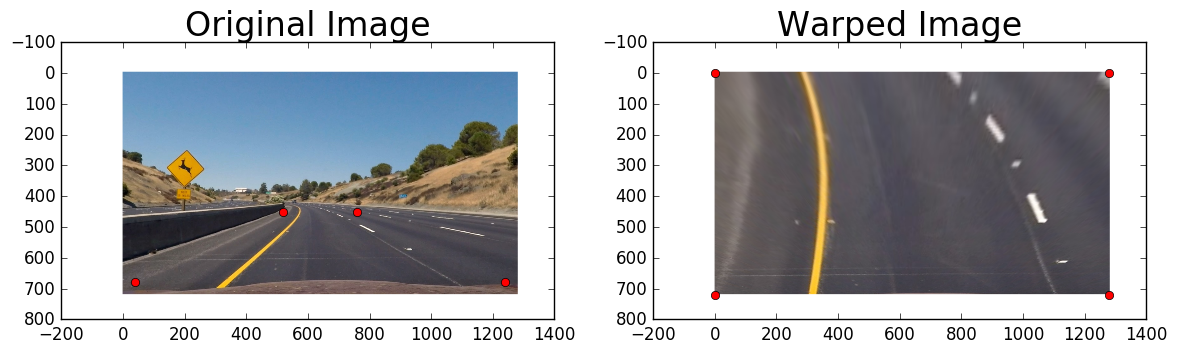
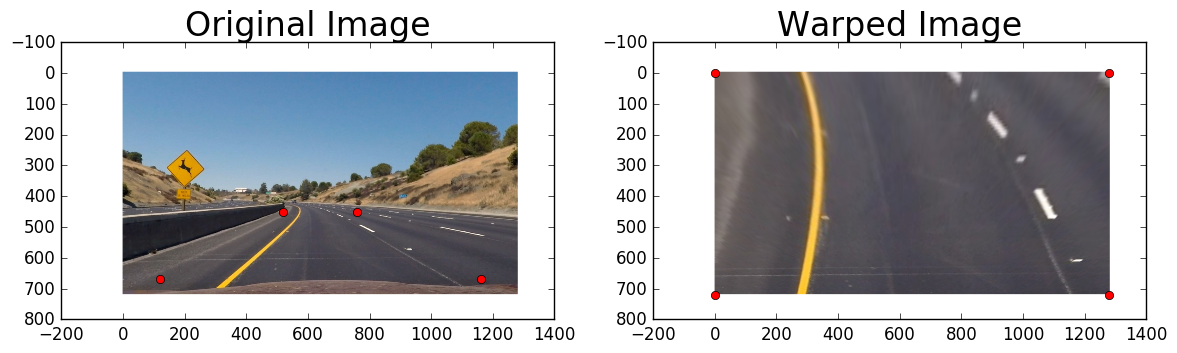
updated offset values

diff --git a/transform.py b/transform.py
@@ -22,14 +22,15 @@ def apply_transform(img):
 
 def create_warp_mappings(image):
     shape = image.shape
-    vertical_offset = 90
-    horizontal_offset = 40
+    top_vertical_offset = 90
+    bottom_vertical_offset = 50
+    horizontal_offset = 120
     mid_vertical = shape[0] / 2
     mid_horizontal = shape[1] / 2
-    bottom_left = [horizontal_offset, (shape[0] - horizontal_offset)]
-    middle_left = [(mid_horizontal - (horizontal_offset * 3)), (mid_vertical + vertical_offset)]
-    middle_right = [(mid_horizontal + (horizontal_offset * 3)), (mid_vertical + vertical_offset)]
-    bottom_right = [(shape[1] - horizontal_offset), (shape[0] - horizontal_offset)]
+    bottom_left = [horizontal_offset, (shape[0] - bottom_vertical_offset)]
+    middle_left = [(mid_horizontal - horizontal_offset), (mid_vertical + top_vertical_offset)]
+    middle_right = [(mid_horizontal + horizontal_offset), (mid_vertical + top_vertical_offset)]
+    bottom_right = [(shape[1] - horizontal_offset), (shape[0] - bottom_vertical_offset)]
     src = np.float32([middle_right, bottom_right, bottom_left, middle_left])
     dst = np.float32([[shape[1], 0], [shape[1], shape[0]], [0, shape[0]], [0, 0]])
     return src, dst
@@ -64,7 +65,7 @@ def show_warp(image_file, visualize=False, save_examples=False):
 
 
 if __name__ == '__main__':
-    parser = argparse.ArgumentParser(description="Camera calibration for Udacity Advanced Lane Finding project")
+    parser = argparse.ArgumentParser(description="Perspective transform for Udacity Advanced Lane Finding project")
     parser.add_argument("-show", action="store_true", help="Visualize data calibration")
     parser.add_argument("-save", action="store_true", help="Save calibration images")
     results = parser.parse_args()
